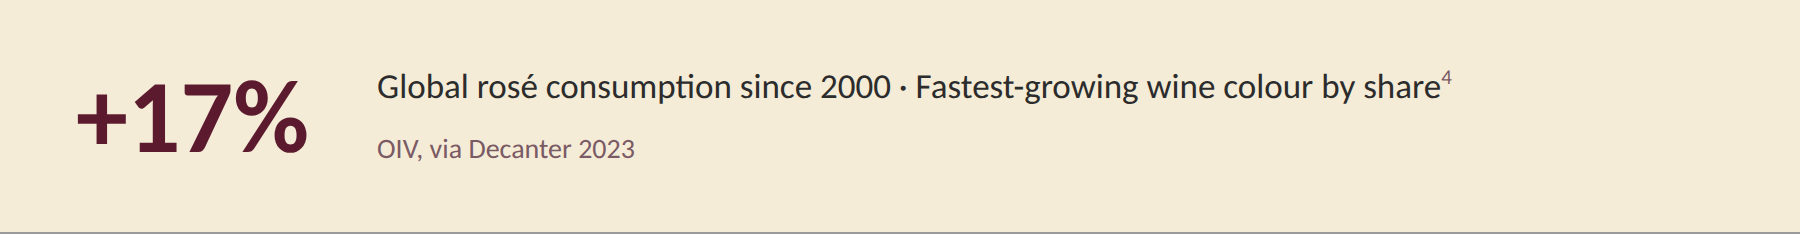
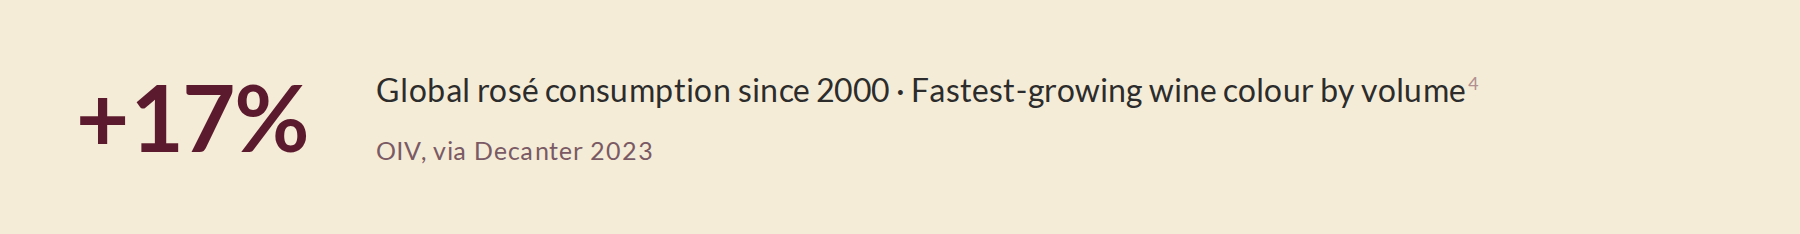
Correct OIV colour shares in Piece 1 article, images and data
OIV publishes no single-year colour shares for 2000; the chart's 55/38/7
were unsupported. Start-of-period shares are now OIV's 2000 to 2004
averages (red 51.3, white 40.0, rosé 8.7) against 2021 (47/43/10), the
comparison Decanter reports. Colour boxes lead with the change in amount
drunk (red -15% from its 2007 peak, white +10% and rosé +17% since 2000),
with share change underneath. Change view now reads -4.3/+3.0/+1.3 pp.
Drops the unsupported "for the first time" and "since the 1990s" lines.

Article stat boxes: rosé is fastest growing "by volume", and white is up
10% "since 2000" (the 15% red fall runs from 2007). Re-renders the static
OIV chart and the p1_03 and p1_04 stat boxes, and updates the archive copy
of the visual, findings.html and wine_piece1_raw_data.json to match.

Claude-Session: https://claude.ai/code/session_017mQusZUvicXjRUQ8Ky54sx

diff --git a/Wine Substack/Piece 1 visuals/visual_oiv_colour_shift.html b/Wine Substack/Piece 1 visuals/visual_oiv_colour_shift.html
@@ -45,7 +45,7 @@
   .pill-swatch { width: 12px; height: 12px; border-radius: 50%; flex-shrink: 0; }
   .pill-text { flex: 1; }
   .pill-name { font-size: 10px; font-weight: 600; color: var(--charcoal); letter-spacing: 0.3px; display: block; }
-  .pill-stat { font-family: 'Cormorant Garamond', serif; font-size: 18px; font-weight: 600; color: var(--burgundy); line-height: 1; }
+  .pill-stat { font-family: 'Cormorant Garamond', serif; font-size: 18px; font-weight: 600; color: var(--burgundy); line-height: 1; font-variant-numeric: lining-nums; }
   .pill-change { font-size: 9px; color: var(--mid); margin-top: 1px; display: block; }
 
   /* Insight box */
@@ -61,7 +61,7 @@
 <div class="card">
   <div class="header">
     <div class="title">The world is moving towards lighter</div>
-    <div class="subtitle">Global wine consumption by colour · 2000 vs 2021 · OIV via Decanter 2023 · hover/tap to view graph labels</div>
+    <div class="subtitle">Global wine consumption by colour · 2000 to 2004 average vs 2021 · hover/tap to view graph labels</div>
   </div>
 
   <div class="body">
@@ -71,24 +71,24 @@
         <div class="pill-swatch" style="background:#7B1D2E"></div>
         <div class="pill-text">
           <span class="pill-name">Red Wine</span>
-          <span class="pill-stat" id="red-stat">55% → 47%</span>
-          <span class="pill-change" id="red-change">−8pp · down 15% from 2007 peak</span>
+          <span class="pill-stat" id="red-stat">−15%</span>
+          <span class="pill-change" id="red-change">Amount drunk since its 2007 peak · share 51.3% → 47%</span>
         </div>
       </div>
       <div class="colour-pill" id="pill-white" onclick="toggleColour('white')">
         <div class="pill-swatch" style="background:#C8A96E"></div>
         <div class="pill-text">
           <span class="pill-name">White Wine</span>
-          <span class="pill-stat" id="white-stat">38% → 43%</span>
-          <span class="pill-change" id="white-change">+5pp · up 10% over two decades</span>
+          <span class="pill-stat" id="white-stat">+10%</span>
+          <span class="pill-change" id="white-change">Amount drunk since 2000 · share 40% → 43%</span>
         </div>
       </div>
       <div class="colour-pill" id="pill-rose" onclick="toggleColour('rose')">
         <div class="pill-swatch" style="background:#D4889A"></div>
         <div class="pill-text">
           <span class="pill-name">Rosé</span>
-          <span class="pill-stat" id="rose-stat">7% → 10%</span>
-          <span class="pill-change" id="rose-change">+3pp · fastest growing colour +43% relative</span>
+          <span class="pill-stat" id="rose-stat">+17%</span>
+          <span class="pill-change" id="rose-change">Amount drunk since 2000, fastest growing · share 8.7% → 10%</span>
         </div>
       </div>
     </div>
@@ -97,7 +97,7 @@
       <button class="toggle-btn active" onclick="setView('stacked')">Stacked Share</button>
       <button class="toggle-btn" onclick="setView('change')">Change Only</button>
     </div>
-    <div style="font-size:9.5px;color:#B09090;font-style:italic;margin-bottom:14px;margin-top:-10px;">pp = percentage points of global consumption share · relative % change shown in pills above</div>
+    <div style="font-size:9.5px;color:#B09090;font-style:italic;margin-bottom:14px;margin-top:-10px;">pp = percentage points of global consumption share · change in amount drunk shown in the boxes above</div>
 
     <div class="chart-wrap">
       <canvas id="mainChart"></canvas>
@@ -116,9 +116,10 @@
 
 <script>
 const DATA = {
-  red:   { y2000: 55, y2021: 47 },
-  white: { y2000: 38, y2021: 43 },
-  rose:  { y2000: 7,  y2021: 10 },
+  // Shares of world consumption: OIV's 2000 to 2004 average against 2021.
+  red:   { y2000: 51.3, y2021: 47 },
+  white: { y2000: 40.0, y2021: 43 },
+  rose:  { y2000: 8.7,  y2021: 10 },
 };
 
 const COLORS = {
@@ -128,8 +129,8 @@ const COLORS = {
 };
 
 const INSIGHTS = {
-  stacked: '<strong>Stacked share view:</strong> In 2000, red wine held more than half of all global consumption. By 2021, that has shrunk to just below half. White and rosé have filled the gap, together now accounting for over half of global consumption for the first time. This may seem minor, but in absolute consumption it represents a significant change.',
-  change: '<strong>Change since 2000 (in percentage points):</strong> Rosé is the standout mover, with a +3pp absolute gain, representing a 43% relative increase in global share. White wine grew steadily (+5pp). Red wine gave back ground accumulated since the 1990s (−8pp). <em>Note: pp = percentage points of global consumption share. Relative % change shown in the colour pills above.</em>',
+  stacked: '<strong>Stacked share view:</strong> In the early 2000s, red wine averaged just over half of global consumption (51.3%). By 2021 that had fallen to 47%, just below half. White and rosé filled the gap, and together now account for more than half of all wine drunk. The shift looks small in share points, but the amount of red wine drunk has fallen 15% from its 2007 peak.',
+  change: '<strong>Change in share, 2000 to 2004 average to 2021 (percentage points):</strong> White gained the most share, up 3.0 points, and rosé added 1.3, while red gave up 4.3. By amount drunk, rosé is the fastest growing colour, up 17% since 2000 against 10% for white. <em>Note: pp = percentage points of global consumption share. Change in amount drunk shown in the colour boxes above.</em>',
 };
 
 let currentView = 'stacked';
@@ -148,7 +149,7 @@ function getVisibleDatasets() {
 function buildStacked() {
   const ds = getVisibleDatasets();
   return {
-    labels: ['2000', '2021'],
+    labels: ['2000 to 2004 average', '2021'],
     datasets: ds.map(d => ({
       label: d.label,
       data: [DATA[d.key].y2000, DATA[d.key].y2021],
@@ -159,14 +160,19 @@ function buildStacked() {
   };
 }
 
+// Rounded to one decimal so 47 − 51.3 reads as −4.3, not −4.2999…
+function shareChange(key) {
+  return Math.round((DATA[key].y2021 - DATA[key].y2000) * 10) / 10;
+}
+
 function buildChange() {
   const ds = getVisibleDatasets();
   return {
     labels: ds.map(d => d.label),
     datasets: [{
       label: 'Change in percentage points (pp)',
-      data: ds.map(d => DATA[d.key].y2021 - DATA[d.key].y2000),
-      backgroundColor: ds.map(d => (DATA[d.key].y2021 - DATA[d.key].y2000) < 0 ? 'rgba(123,29,46,0.8)' : d.color.solid),
+      data: ds.map(d => shareChange(d.key)),
+      backgroundColor: ds.map(d => shareChange(d.key) < 0 ? 'rgba(123,29,46,0.8)' : d.color.solid),
       borderColor: ds.map(d => d.color.solid),
       borderWidth: 1.5,
       borderRadius: 2,
@@ -199,8 +205,8 @@ function render() {
           callbacks: {
             label: ctx => {
               const v = ctx.parsed.y;
-              const prefix = (currentView === 'change' && v > 0) ? '+' : '';
-              return `${ctx.dataset.label}: ${prefix}${v}%`;
+              if (currentView === 'change') return `${ctx.label}: ${v > 0 ? '+' : ''}${v.toFixed(1)} pp`;
+              return `${ctx.dataset.label}: ${v}%`;
             }
           }
         }
@@ -217,11 +223,11 @@ function render() {
           grid: { color: 'rgba(92,26,46,0.06)', drawBorder: false },
           ticks: {
             font: { family: 'Montserrat', size: 9.5 }, color: '#B09090',
-            callback: v => (isChange && v > 0 ? '+' : '') + v + '%'
+            callback: v => isChange ? (v > 0 ? '+' : '') + v + ' pp' : v + '%'
           },
           border: { display: false },
-          min: isChange ? -12 : 0,
-          max: isChange ? 10 : (isStacked ? 105 : 65),
+          min: isChange ? -6 : 0,
+          max: isChange ? 4 : (isStacked ? 105 : 65),
         }
       },
       animation: { duration: 500, easing: 'easeInOutQuart' }

diff --git a/findings.html b/findings.html
@@ -282,7 +282,7 @@
       <div class="source">OIV International Organisation of Vine and Wine · via Decanter, December 2023</div>
       <div class="chart-wrap"><canvas id="oivChart"></canvas></div>
       <div class="method-note">
-        <strong>Methodology:</strong> OIV global consumption share data, two snapshots: 2000 and 2021. Red wine fell from 55% to 47% (−8pp; peak was ~55% in 2007 before sustained decline). White rose from 38% to 43% (+5pp). Rosé grew from 7% to 10% — a 43% relative increase, the fastest-growing colour by share. Connection to seasonal thesis: the global shift toward lighter styles is consistent with rising consumer preference for wine in warmer, more casual, social occasions.
+        <strong>Methodology:</strong> OIV global consumption share data: OIV's 2000 to 2004 average against 2021 (OIV gives no single-year shares for 2000). Red's share fell from 51.3% to 47% (−4.3pp), and the amount of red drunk is down 15% from its 2007 peak. White rose from 40.0% to 43% (+3.0pp), with the amount drunk up 10% since 2000. Rosé grew from 8.7% to 10% (+1.3pp) and is the fastest-growing colour by volume, up 17% since 2000. Connection to seasonal thesis: the global shift toward lighter styles is consistent with rising consumer preference for wine in warmer, more casual, social occasions.
       </div>
     </div>
 
@@ -513,11 +513,11 @@
 new Chart(document.getElementById('oivChart'), {
   type: 'bar',
   data: {
-    labels: ['2000', '2021'],
+    labels: ['2000 to 2004 average', '2021'],
     datasets: [
-      { label: 'Red',      data: [55, 47], backgroundColor: '#5C1A2E', borderRadius: 4, borderSkipped: false },
-      { label: 'White',    data: [38, 43], backgroundColor: '#B8973A', borderRadius: 4, borderSkipped: false },
-      { label: 'Rosé',     data: [7,  10], backgroundColor: '#C27A8A', borderRadius: 4, borderSkipped: false }
+      { label: 'Red',      data: [51.3, 47], backgroundColor: '#5C1A2E', borderRadius: 4, borderSkipped: false },
+      { label: 'White',    data: [40.0, 43], backgroundColor: '#B8973A', borderRadius: 4, borderSkipped: false },
+      { label: 'Rosé',     data: [8.7, 10], backgroundColor: '#C27A8A', borderRadius: 4, borderSkipped: false }
     ]
   },
   options: {

diff --git a/app/stories-and-trends/every-wine-has-its-moment/page.tsx b/app/stories-and-trends/every-wine-has-its-moment/page.tsx
@@ -138,11 +138,11 @@ export default function EveryWineHasItsMomentPage() {
 
             <DataCallout
               stat="+17%"
-              context="Global rosé consumption since 2000. Fastest-growing wine colour by share. (OIV, via Decanter 2023)⁴"
+              context="Global rosé consumption since 2000. Fastest-growing wine colour by volume. (OIV, via Decanter 2023)⁴"
             />
             <DataCallout
               stat="−15%"
-              context="Red wine consumption from its 2007 peak. White wine up 10% over the same period. (OIV)⁴"
+              context="Red wine consumption from its 2007 peak. White wine up 10% since 2000. (OIV)⁴"
             />
 
             <p>
